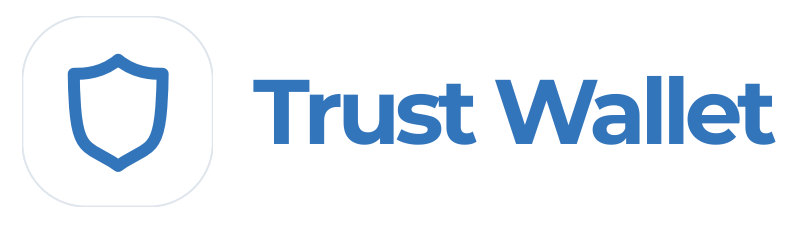
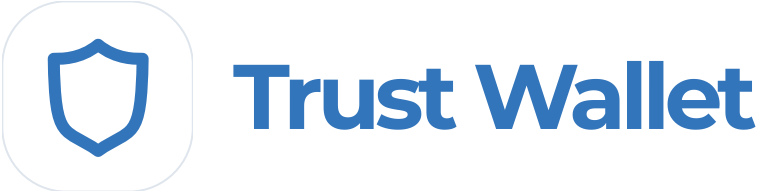
GitBook: [#362] No subject

diff --git a/get-started/wallet-setup.md b/get-started/wallet-setup.md
@@ -6,7 +6,7 @@
 
 ****[**Binance Chain Wallet**](https://www.binance.com/en/wallet-direct) **** ![](<../.gitbook/assets/image (18).png>)****
 
-****[**Trust Wallet**](https://trustwallet.com) **** ![](../.gitbook/assets/trustwallet.png)****
+****[**Trust Wallet**](https://trustwallet.com) **** ![](<../.gitbook/assets/image (16).png>)****
 
 [**WalletConnect** ](https://walletconnect.com)****![](<../.gitbook/assets/image (17).png>)****
 
